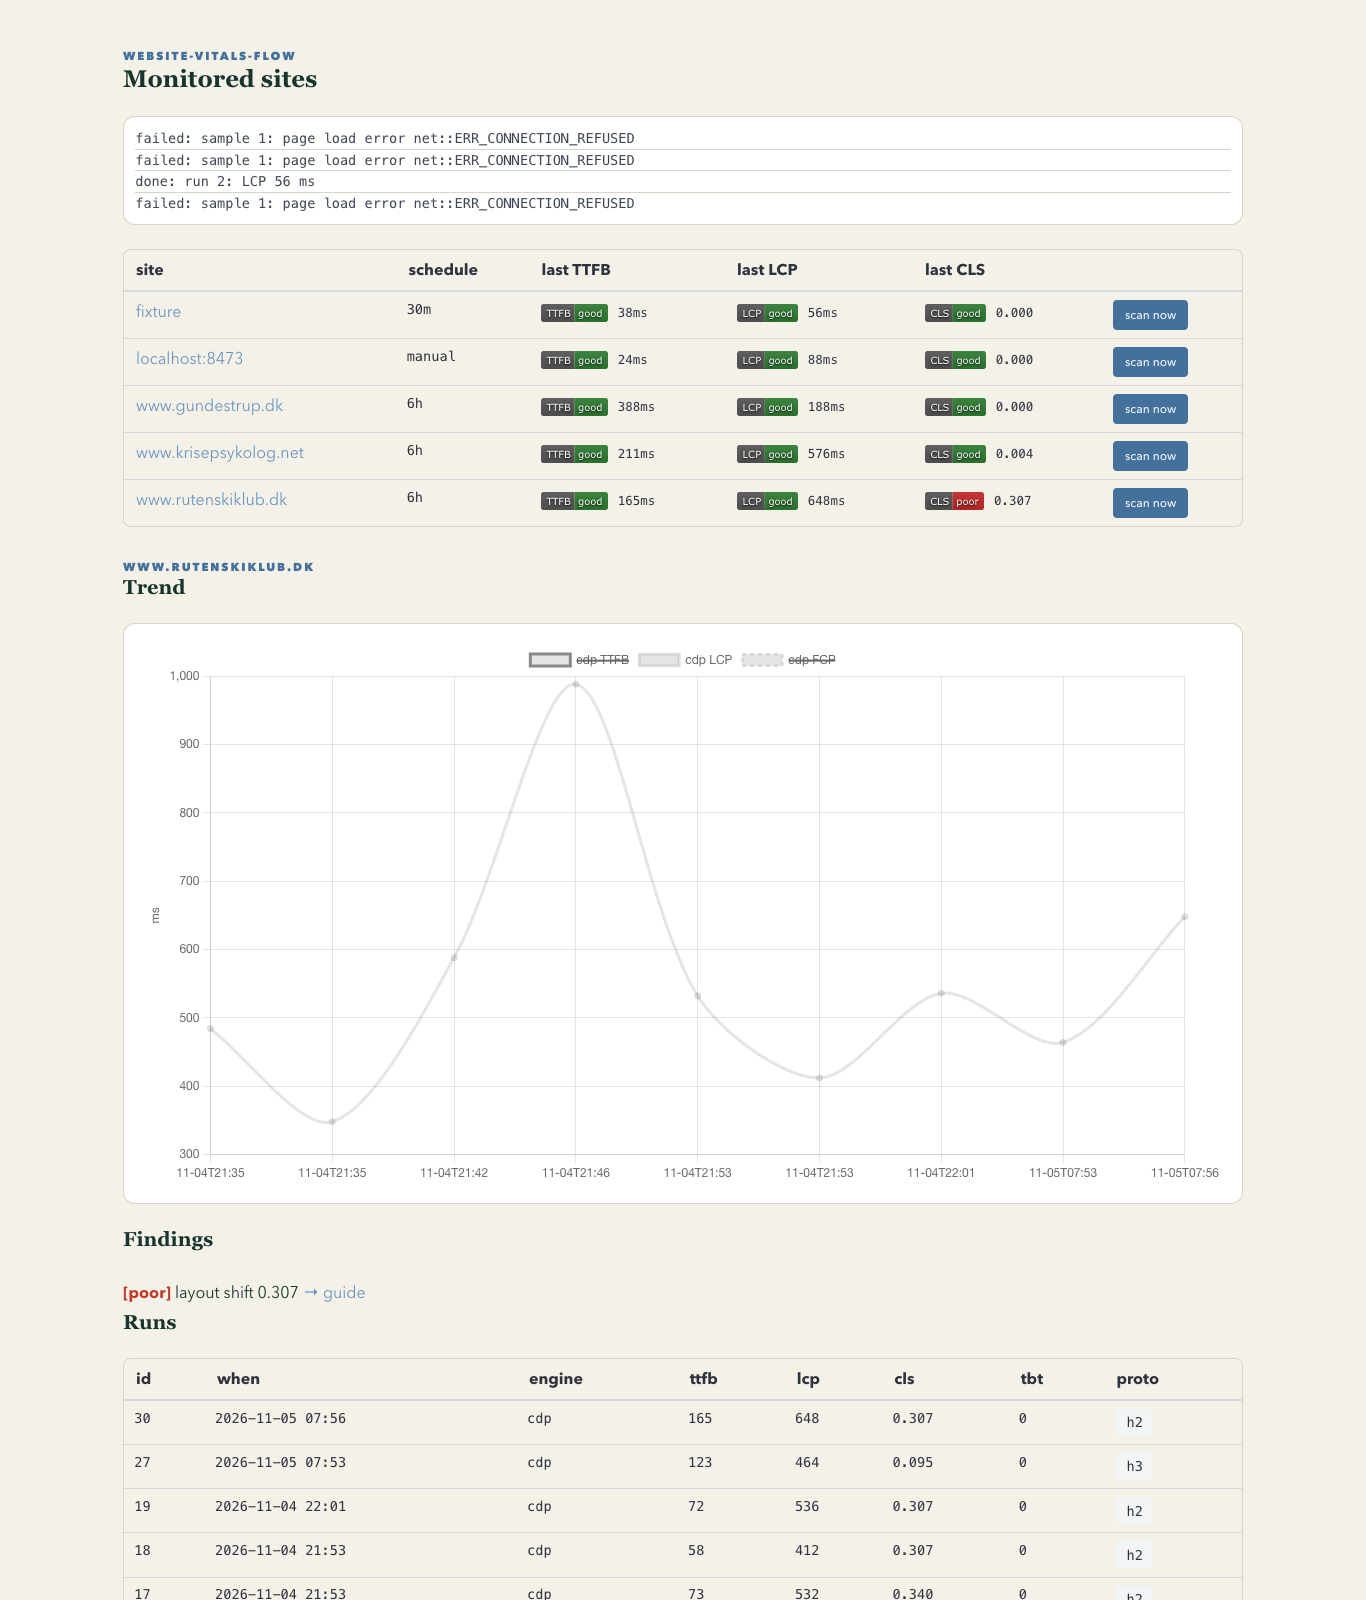
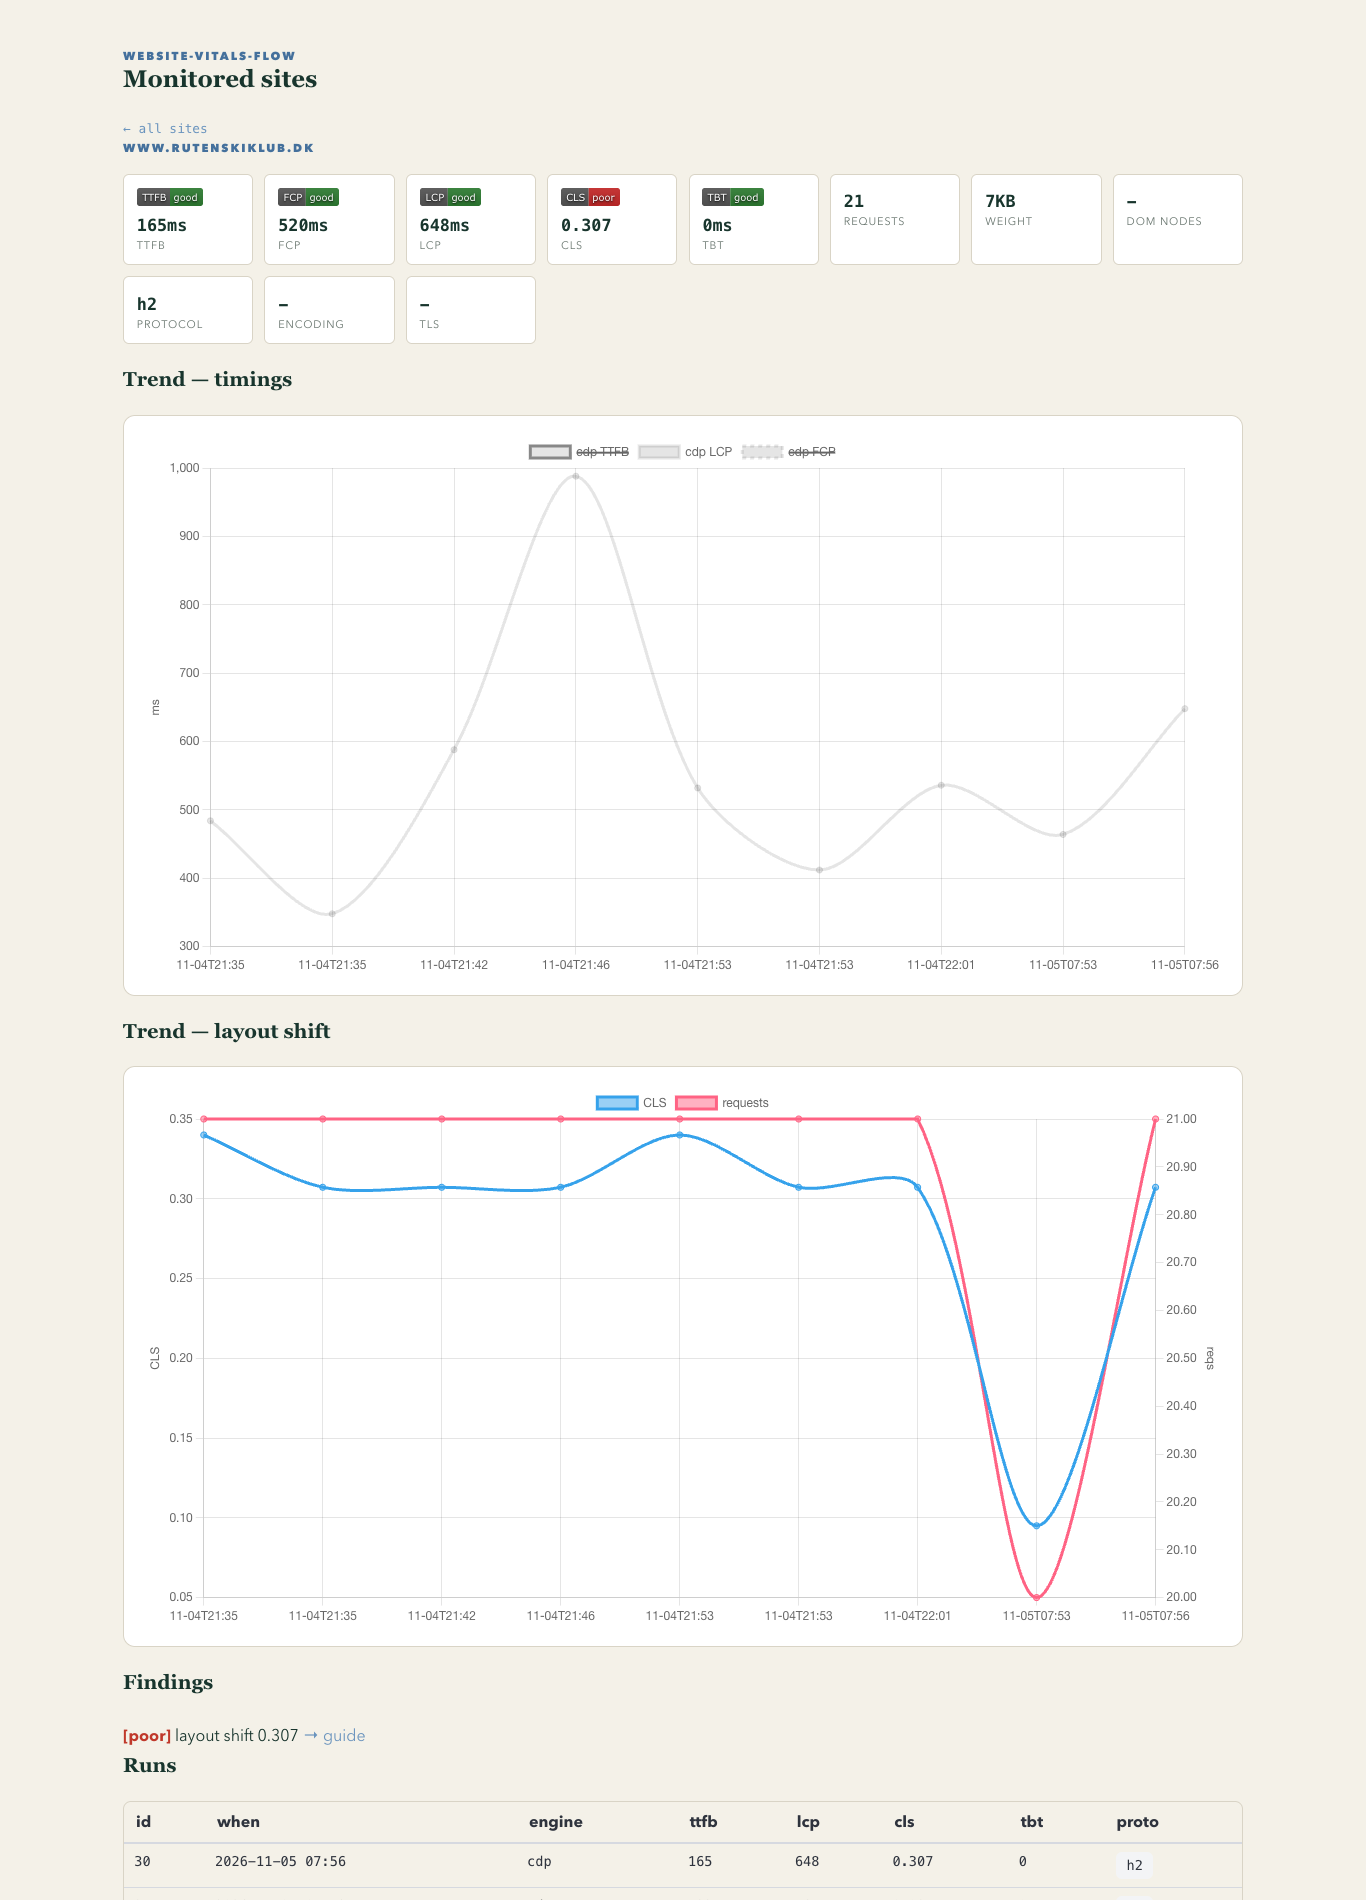
Site detail: standalone measurement view, no site list
- site list + job log hide when a site is open; '← all sites' back
  link returns; hash deeplink syncs (open() sets location.hash)
- metric-grid summary on the detail: badge + value cells for
  TTFB/FCP/LCP/CLS/TBT + requests/weight/DOM/protocol/encoding/TLS —
  the sitespeed-style measurement overview
- second trend chart: CLS + request count on dual axes (ms scale
  can't carry CLS); timings chart keeps per-engine TTFB/FCP/LCP
- site-detail.png recaptured at 1900px showing the full view

Generated with [Devin](https://devin.ai)

diff --git a/internal/server/static/app.js b/internal/server/static/app.js
@@ -12,6 +12,23 @@ document.addEventListener('alpine:init', () => {
       return this.band(id,v).replace('band-','');
     },
     fmtv(id,v){ return id==='cls'?(v==null?'-':v.toFixed(3)):(v==null?'-':Math.round(v)+'ms') },
+    chart2: null,
+    metricCards(){
+      const r=this.last[this.sel]; if(!r) return [];
+      const out=[];
+      const ms=(id,v,label)=>{out.push({id,band:this.bandName(id,v),
+        text:this.fmtv(id,v),label})};
+      ms('ttfb',r.ttfb_ms,'TTFB'); ms('fcp',r.fcp_ms,'FCP');
+      ms('lcp',r.lcp_ms,'LCP');   ms('cls',r.cls,'CLS');
+      ms('tbt',r.tbt_ms,'TBT');
+      out.push({id:'',band:'na',text:r.request_count??'-',label:'requests'});
+      out.push({id:'',band:'na',text:r.page_bytes?Math.round(r.page_bytes/1024)+'KB':'-',label:'weight'});
+      out.push({id:'',band:'na',text:r.dom_nodes??'-',label:'DOM nodes'});
+      out.push({id:'',band:'na',text:r.http_protocol||'-',label:'protocol'});
+      out.push({id:'',band:'na',text:r.content_encoding||'-',label:'encoding'});
+      out.push({id:'',band:'na',text:r.tls_version||'-',label:'TLS'});
+      return out;
+    },
     async j(u,o){ const r=await fetch(u,o); return r.json() },
     async load(){
       this.sites = await this.j('/api/sites') || [];
@@ -25,7 +42,7 @@ document.addEventListener('alpine:init', () => {
       }
     },
     async open(key){
-      this.sel=key;
+      this.sel=key; location.hash=key;
       this.runs=(await this.j('/api/sites/'+key+'/runs'))||[];
       if(this.runs.length){
         const det=await this.j('/api/runs/'+this.runs[0].id);
@@ -56,6 +73,17 @@ document.addEventListener('alpine:init', () => {
       this.chart=new Chart(document.getElementById('chart'),{type:'line',
         data:{labels,datasets:ds},
         options:{plugins:{legend:{display:true}},scales:{y:{title:{text:'ms',display:true}}}}});
+      // second chart: CLS + request count (separate scale from ms)
+      const c2=document.getElementById('chart2');
+      if(c2){
+        if(this.chart2) this.chart2.destroy();
+        this.chart2=new Chart(c2,{type:'line',
+          data:{labels,datasets:[
+            {label:'CLS',data:rs.map(r=>r.cls),tension:.3},
+            {label:'requests',data:rs.map(r=>r.request_count),tension:.3,yAxisID:'y1'}]},
+          options:{scales:{y:{title:{text:'CLS',display:true}},
+            y1:{position:'right',title:{text:'reqs',display:true},grid:{drawOnChartArea:false}}}}});
+      }
     }
   }));
 });

diff --git a/internal/server/static/index.html b/internal/server/static/index.html
@@ -4,6 +4,7 @@
 <p class=eyebrow>website-vitals-flow</p>
 <h1 class="title is-4 section-heading">Monitored sites</h1>
 <div x-data="dash" x-init="load()">
+<div x-show="!sel">
 <template x-if="jobs.length"><div class="box is-shadowless" style="border:1px solid var(--wvf-line);padding:.7em">
   <template x-for="j in jobs.slice(0,4)"><div class="job-row mono" x-text="j.state+': '+(j.detail||'')"></div></template>
 </div></template>
@@ -24,11 +25,21 @@
       <img class=badge-img x-bind:src="'/badges/cls-'+bandName('cls',last[s.key].cls)+'.svg'">
       <span class="badge-val mono" x-text="fmtv('cls',last[s.key].cls)"></span></span></template></td>
   <td><button class="button is-small is-primary" @click="scan(s.key)" x-bind:disabled="busy">scan now</button></td>
-</tr></template></tbody></table></div>
-<div x-show="sel" style="margin-top:2em">
+</tr></template></tbody></table></div></div>
+<div x-show="sel" style="margin-top:1em">
+  <a href="#" @click.prevent="sel='';location.hash=''" class="mono" style="font-size:.8rem">← all sites</a>
   <p class=eyebrow x-text="sel"></p>
-  <h2 class="title is-5 section-heading">Trend</h2>
+  <template x-if="last[sel]"><div class="metric-grid">
+    <template x-for="m in metricCards()"><div class="metric-cell">
+      <img class=badge-img x-bind:src="'/badges/'+m.id+'-'+m.band+'.svg'" x-show="m.band!=='na'">
+      <div class="metric-val mono" x-text="m.text"></div>
+      <div class="metric-lbl" x-text="m.label"></div>
+    </div></template>
+  </div></template>
+  <h2 class="title is-5 section-heading">Trend — timings</h2>
   <div class="box is-shadowless" style="border:1px solid var(--wvf-line)"><canvas id=chart></canvas></div>
+  <h2 class="title is-5 section-heading">Trend — layout shift</h2>
+  <div class="box is-shadowless" style="border:1px solid var(--wvf-line)"><canvas id=chart2></canvas></div>
   <h2 class="title is-5 section-heading" x-show="findings.length">Findings</h2>
   <template x-for="f in findings"><div class="job-row" style="padding:.4em 0">
     <span x-bind:class="'sev-'+f.severity" x-text="'['+f.severity+']'"></span>

diff --git a/internal/server/static/style.css b/internal/server/static/style.css
@@ -59,3 +59,11 @@ body { min-height: 100vh; background: var(--wvf-paper); color: var(--wvf-ink); }
 
 .badge-img { height:18px; vertical-align:middle; }
 .badge-val { margin-left:.45em; font-size:.78rem; }
+
+.metric-grid { display:grid; grid-template-columns:repeat(auto-fill,minmax(120px,1fr));
+  gap:.7em; margin:1em 0 1.5em; }
+.metric-cell { border:1px solid var(--wvf-line); border-radius:6px;
+  padding:.6em .8em; background:var(--wvf-bg-soft,#fff); }
+.metric-val { font-size:1.05rem; font-weight:700; margin-top:.3em; }
+.metric-lbl { font-size:.68rem; text-transform:uppercase; letter-spacing:.08em;
+  color:var(--wvf-muted); }
